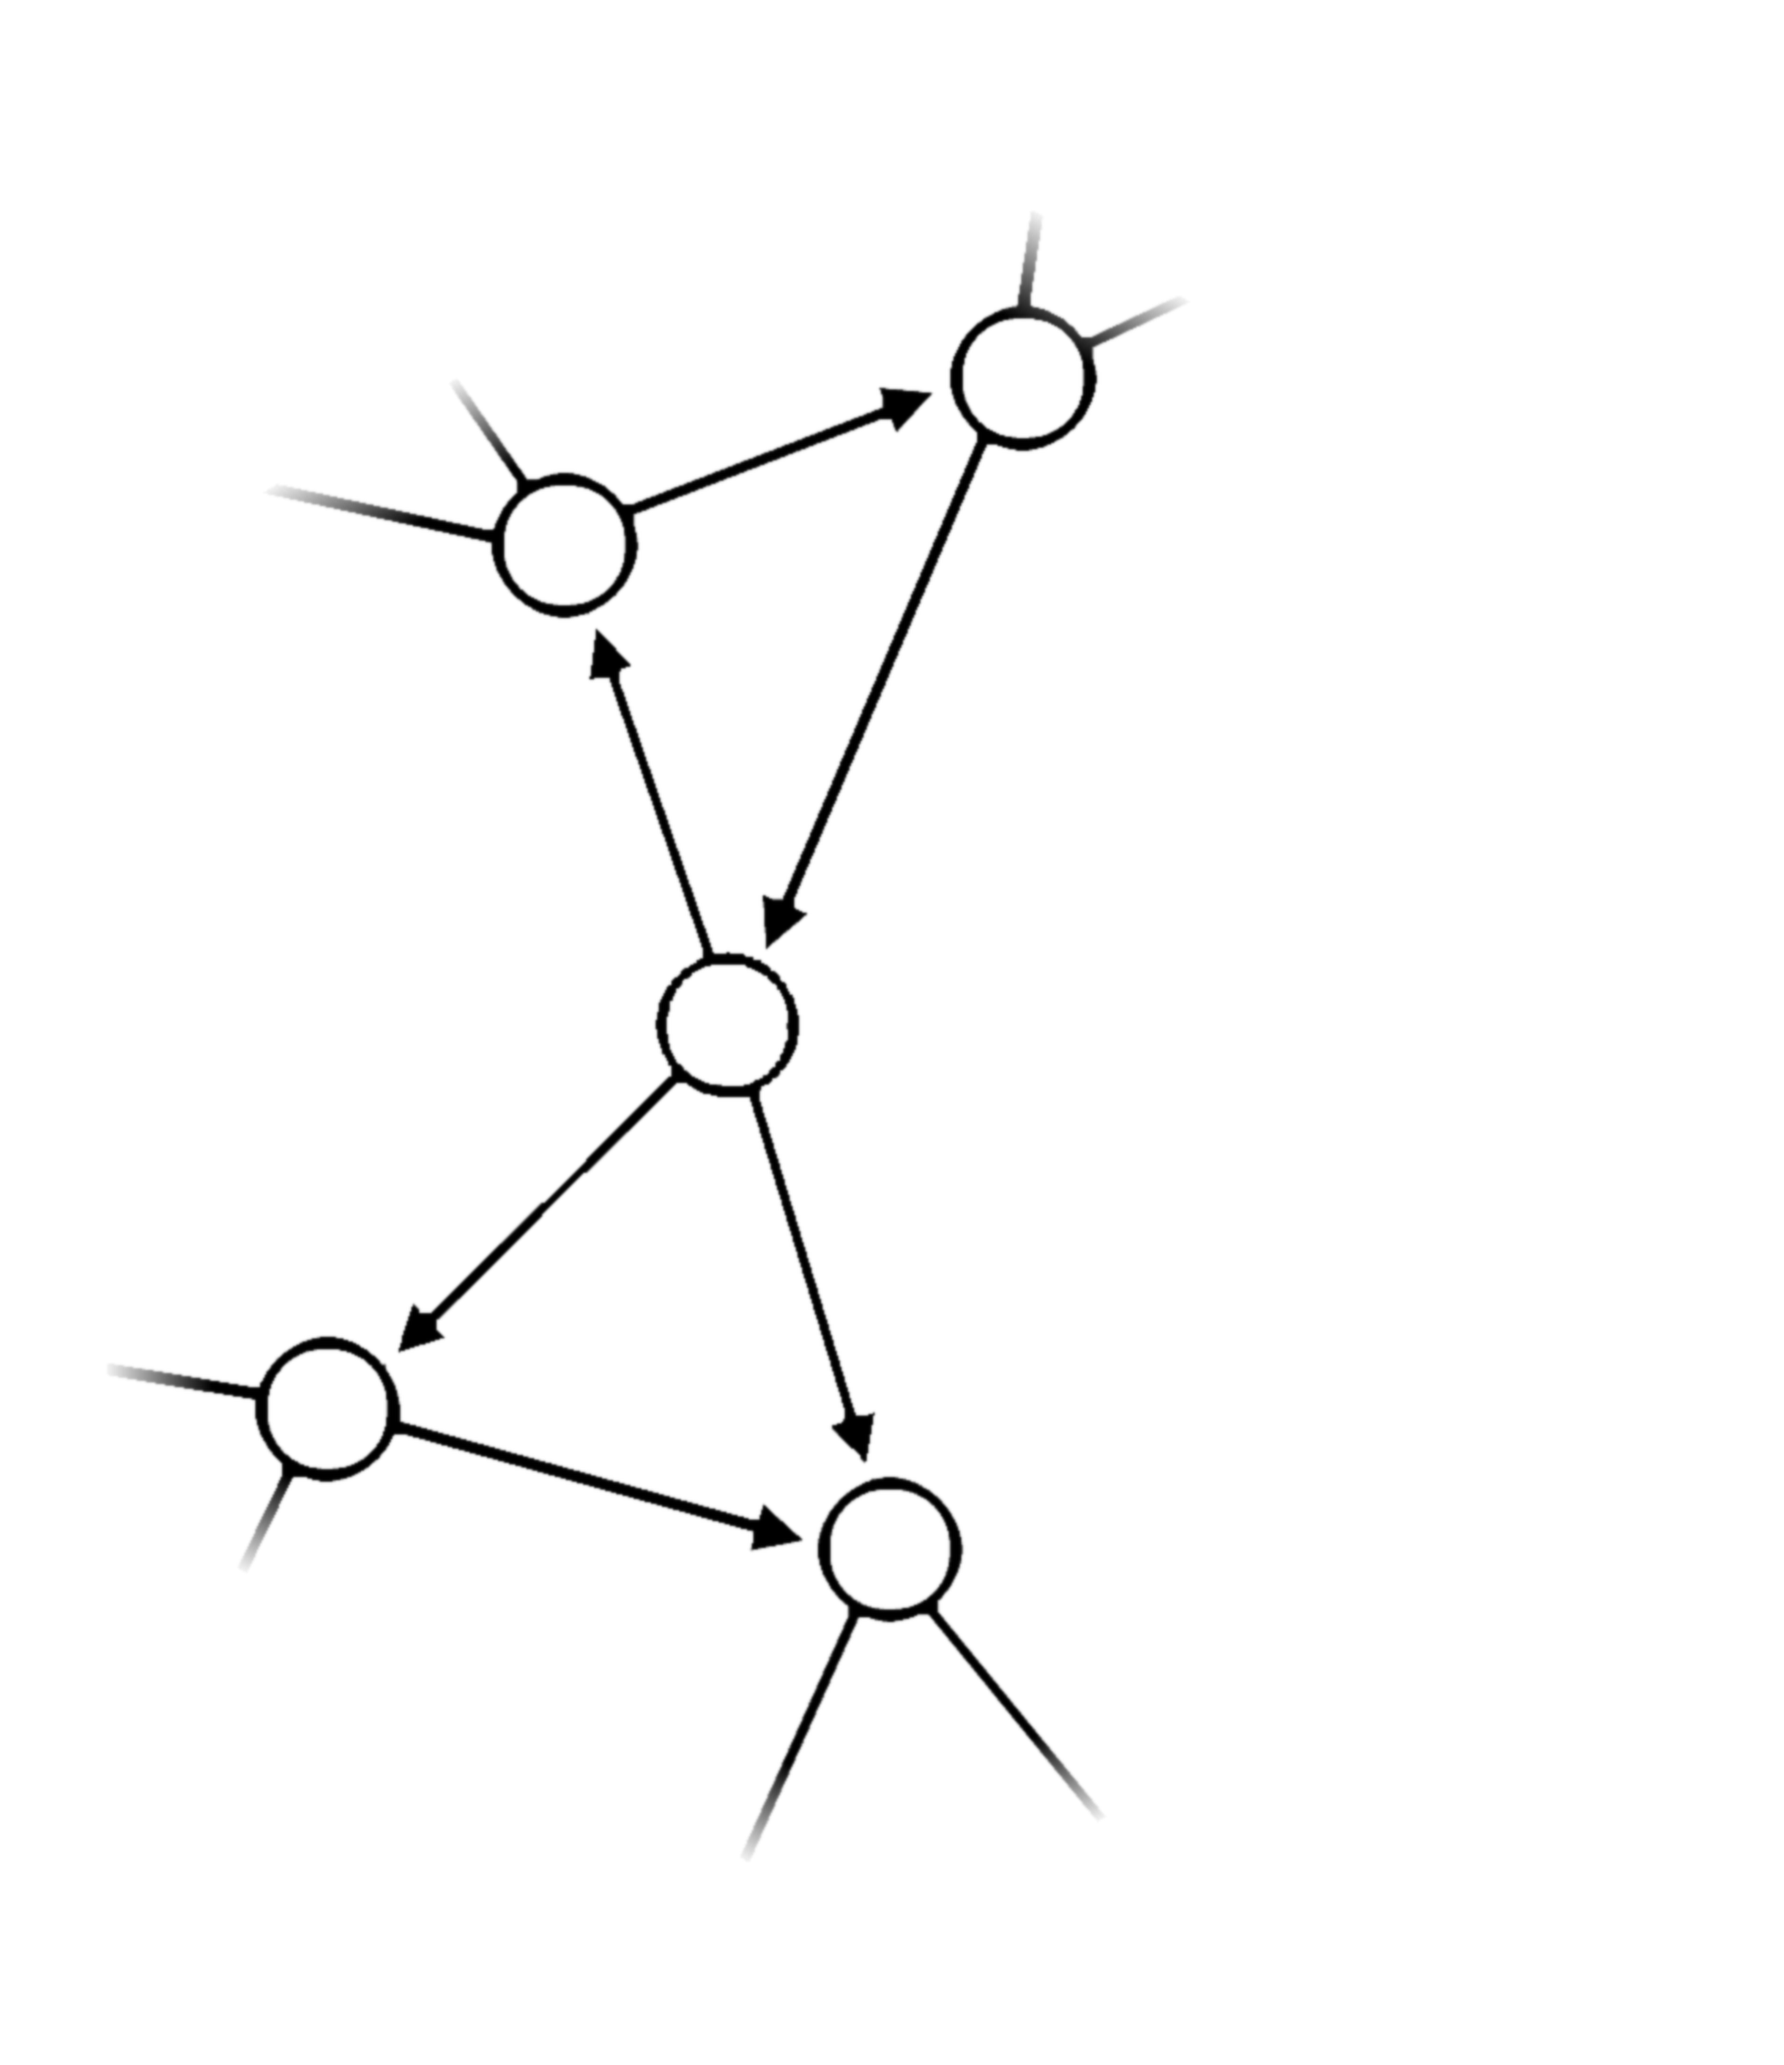
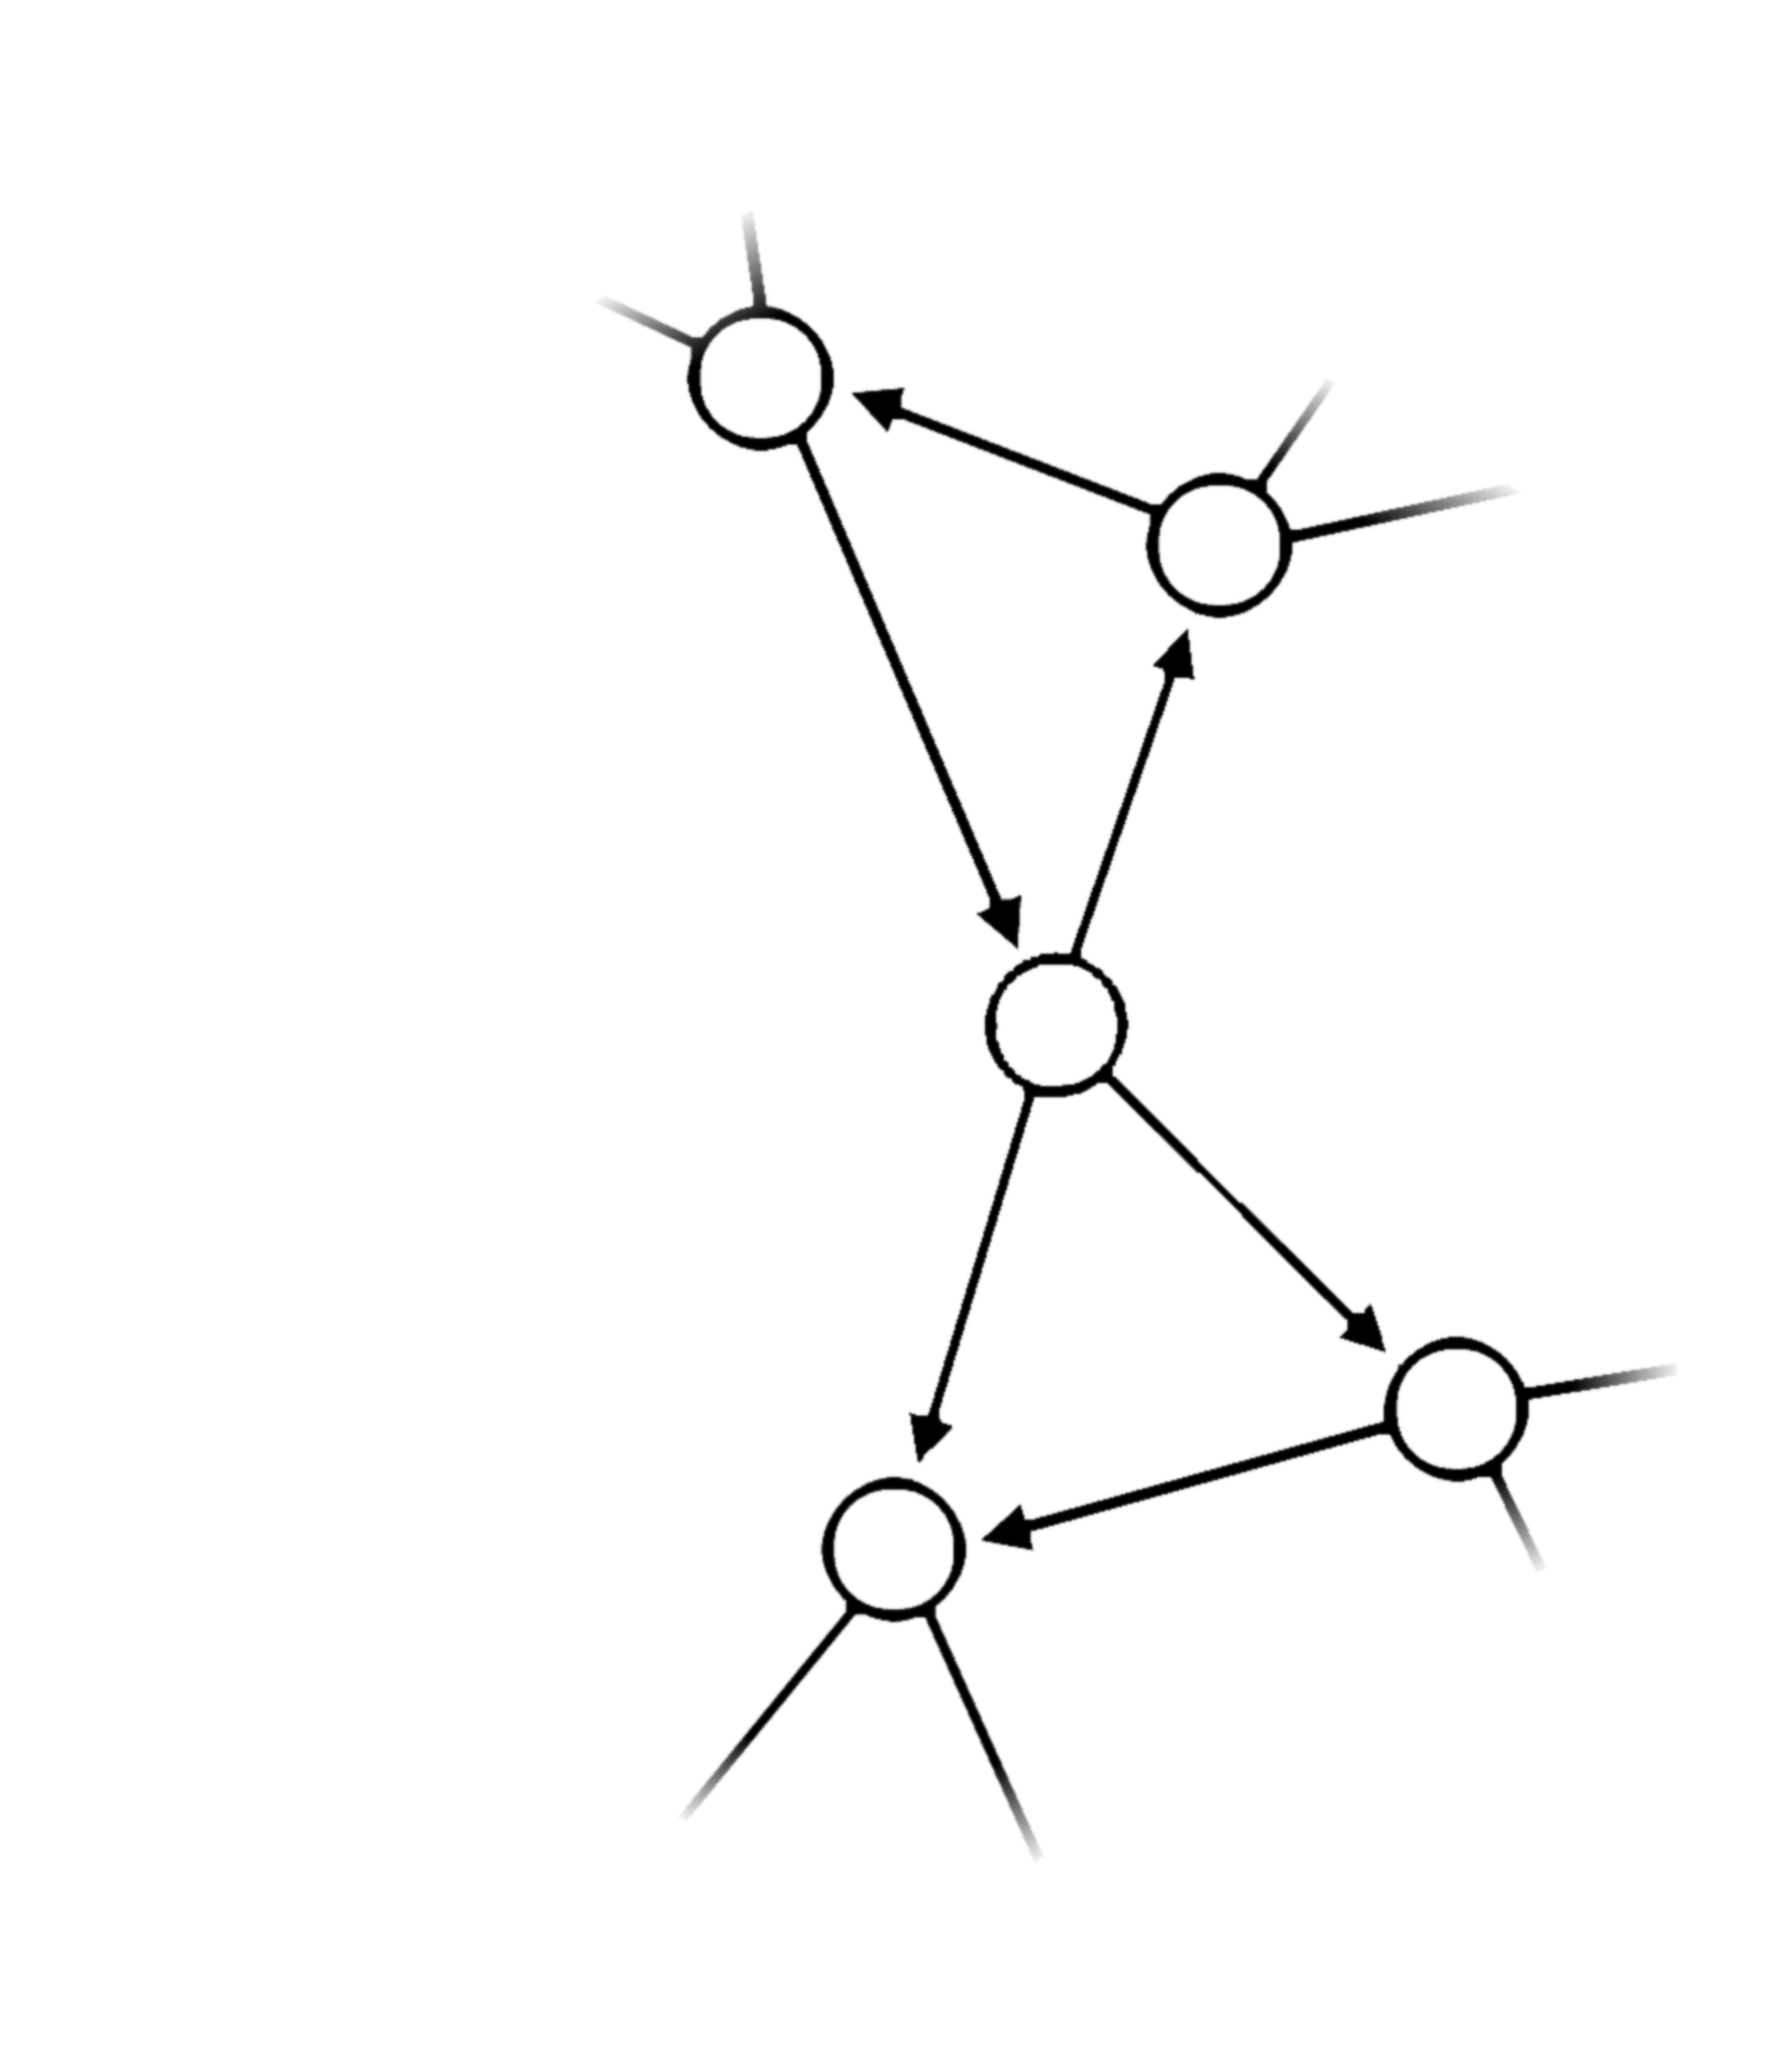
Background: 4% strength, scrolls with the page, mirrored

diff --git a/style.css b/style.css
@@ -30,6 +30,7 @@
 html { scroll-behavior: smooth; }
 
 body {
+  position: relative;
   margin: 0;
   background: var(--bg);
   color: var(--text);
@@ -454,20 +455,20 @@ footer {
 /* Faint network background: the MoNAn nodes and links, huge and almost invisible */
 body::before {
   content: "";
-  position: fixed;
+  position: absolute;
   inset: 0;
   z-index: -1;
   pointer-events: none;
   background-color: var(--text);
-  opacity: 0.06;
-  -webkit-mask: url("assets/monan-bg.png") no-repeat calc(max(307px, 50vw - 333px) + 30px - 6.6vmax) 15% / 115vmax auto;
-  mask: url("assets/monan-bg.png") no-repeat calc(max(307px, 50vw - 333px) + 30px - 6.6vmax) 15% / 115vmax auto;
+  opacity: 0.04;
+  -webkit-mask: url("assets/monan-bg.png") repeat-y calc(max(307px, 50vw - 333px) + 30px - 38.2vmax) -80px / 115vmax auto;
+  mask: url("assets/monan-bg.png") repeat-y calc(max(307px, 50vw - 333px) + 30px - 38.2vmax) -80px / 115vmax auto;
 }
 
 @media (max-width: 820px) {
   body::before {
-    -webkit-mask-position: 50% 15%;
-    mask-position: 50% 15%;
+    -webkit-mask-position: 50% -40px;
+    mask-position: 50% -40px;
   }
 }
 
